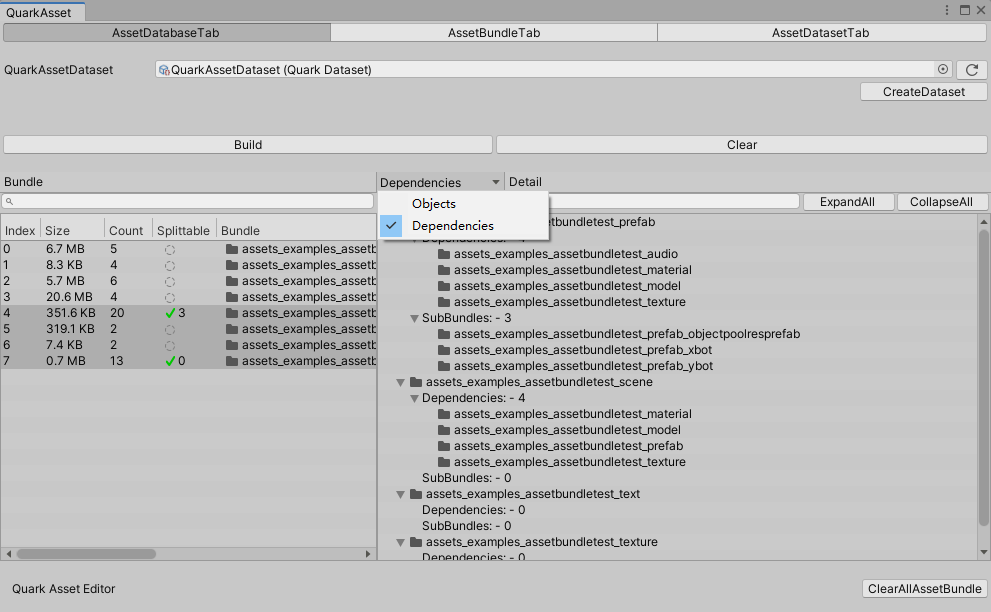
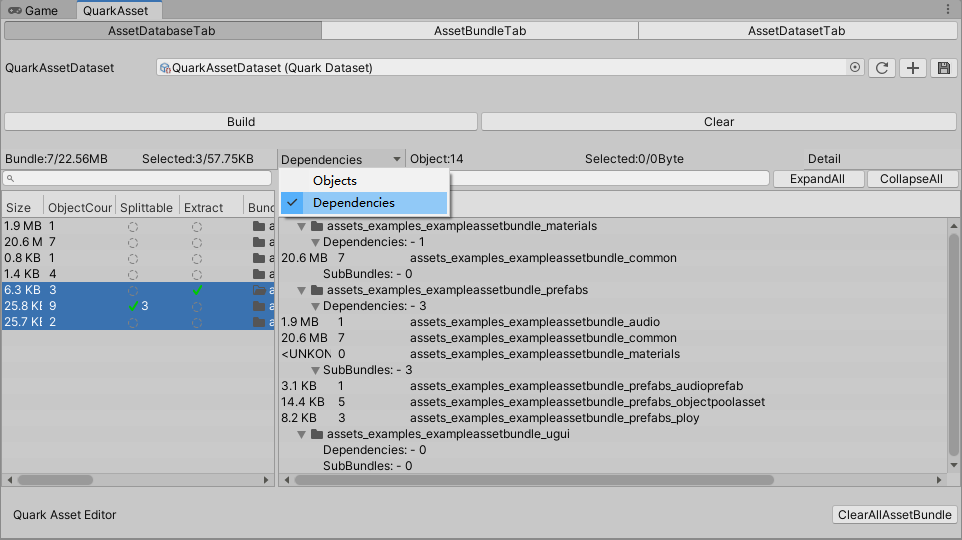
Update: 更新md

Changed region(s): [[0.0, 0.0, 1.0, 1.0]]

diff --git a/README.md b/README.md
@@ -19,15 +19,19 @@ QuarkAsset是一套轻量级的插件化Unity资源加载方案。 内置AssetDa
       - [查看AssetBundle中的资源](#查看assetbundle中的资源)
       - [查看AssetBundle依赖](#查看assetbundle依赖)
       - [拆分AssetBundle](#拆分assetbundle)
+        - [依据子文件夹拆分](#依据子文件夹拆分)
+        - [依据每个资源个体拆分](#依据每个资源个体拆分)
     - [AssetBundleTab](#assetbundletab)
+      - [使用本地设置](#使用本地设置)
+      - [使用构建预设](#使用构建预设)
     - [AssetDatasetTab](#assetdatasettab)
   - [QuarkRuntime入口-QuarkConfig](#quarkruntime入口-quarkconfig)
     - [未选择加载模式](#未选择加载模式)
     - [AssetDatabase加载模式](#assetdatabase加载模式)
     - [AssetBundle加载模式](#assetbundle加载模式)
-  - [QuarkRuntime加载&卸载](#quarkruntime加载&卸载)
   - [QuarkRuntime应用实例](#quarkruntime应用实例)
     - [自定义入口实例](#自定义入口实例)
+  - [QuarkRuntime](#quarkruntime)
     - [QuarkResources加载](#quarkresources加载)
       - [QuarkResources同步加载](#quarkresources同步加载)
       - [QuarkResources异步加载](#quarkresources异步加载)
@@ -41,6 +45,7 @@ QuarkAsset是一套轻量级的插件化Unity资源加载方案。 内置AssetDa
     - [文件清单合并](#文件清单合并)
   - [注意事项](#注意事项)
 
+---
 
 <a name="UPM支持"></a>
 
@@ -51,6 +56,8 @@ QuarkAsset是一套轻量级的插件化Unity资源加载方案。 内置AssetDa
 * UPM本地导入。选择Assets/QuarkAsset文件夹，拷贝到工程目录的Packages目录下，完成导入。
 
 * UPM从git导入。url链接: https://github.com/DonnYep/QuarkAsset.git#upm 
+
+---
 
 <a name="QuarkEditor编辑器"></a>
 
@@ -75,6 +82,7 @@ QuarkAsset是一套轻量级的插件化Unity资源加载方案。 内置AssetDa
 <a name="QuarkEditor-AssetDatabaseTab"></a>
 
 ### AssetDatabaseTab
+
 ![Quark_AssetDatabaseTab](Docs/Images/Quark_AssetDatabaseTab.png)
 
 * 此页面显示dataset中包含的AssetBundle信息。
@@ -85,45 +93,100 @@ QuarkAsset是一套轻量级的插件化Unity资源加载方案。 内置AssetDa
 
 <a name="设置AssetBundle"></a>
 
-#### 设置AssetBundle
+#### &nbsp; 设置AssetBundle
 
 * 将需要被打包为ab的文件夹或资源拖拽入bundle label窗口，被拖入的资源会自动生成ab名称。点击上方Build按钮，完成dataset资源识别。
   
 <a name="查看AssetBundle中的资源"></a>
 
-#### 查看AssetBundle中的资源
-![Quark_AssetDatabaseTab_Preview](Docs/Images/Quark_AssetDatabaseTab_Preview.png)
+#### &nbsp; 查看AssetBundle中的资源
 
 * 选中需要查看的bundle，在右侧label中可缩放查看缩略图信息。
+![Quark_AssetDatabaseTab_Preview](Docs/Images/Quark_AssetDatabaseTab_Preview.png)
+
 
 <a name="查看AssetBundle依赖"></a>
 
-#### 查看AssetBundle依赖
-![Quark_AssetDatabaseTab_Dependent](Docs/Images/Quark_AssetDatabaseTab_Dependent.png)
+#### &nbsp; 查看AssetBundle依赖
 
 * 如图所示，选择显示区类别，可查看bundle的依赖关系以及subbundle信息。
+![Quark_AssetDatabaseTab_Dependent](Docs/Images/Quark_AssetDatabaseTab_Dependent.png)
+
 
 <a name="拆分AssetBundle"></a>
 
-#### 拆分AssetBundle
+#### &nbsp; 拆分AssetBundle
+
+<a name="依据子文件夹拆分"></a>
+
+##### &nbsp; &nbsp; 依据子文件夹拆分
+
+* Mark as splittable
 ![Quark_AssetDatabaseTab_SplitBundle](Docs/Images/Quark_AssetDatabaseTab_SplitBundle.png)
 
 * 选择bundle，点击右键显示菜单，点击"Mark as splittable"选项，被选中的bundle会被标记为可分割的bundle，点击"Build"按钮，刷新信息。
   
 * 分割bundle的逻辑为，若bundle存在子文件夹，则第一级的子文件夹被标记为新的bundle，在构建bundle时会生成新的bundle，同时父级bundle则不会再构建。
 
+* `Splittable`与`Extract`是互斥的。即Splittable为true时，Extract无法为true，反之亦然。
+
+<br>
+
+<a name="依据每个资源个体拆分"></a>
+
+##### &nbsp; &nbsp; 依据每个资源个体拆分
+
+* Mark as extract
+![Quark_AssetDatabaseTab_ExtractBundle](Docs/Images/Quark_AssetDatabaseTab_ExtractBundle.png)
+
+* 选择bundle，点击右键显示菜单，点击"Mark as extract"选项，被选中的bundle会被标记为可分割的bundle，点击"Build"按钮，刷新信息。
+  
+* 当bundle被标记为Extract时，此bundle下的所有资源对象都将作为`独立的assetbundle`进行构建。此功能适用于变更频繁的资产。
+
+* `Extract`与`Splittable`是互斥的。即Extract为true时，Splittable无法为true，反之亦然。
+
+<div style="border-top: 1px solid black; margin-top: 20px; margin-bottom: 20px;"></div>
 
 <a name="QuarkEditor-AssetBundleTab"></a>
 
 ### AssetBundleTab
-![Quark_AssetBundleTab](Docs/Images/Quark_AssetBundleTab.png)
 
 * 此Tab用于ab打包操作。
 
 * 打包ab时需要选择ab所对应的平台。若需要拷贝到streamingAssets文件夹，则勾选CopyToStreamingAssets选项。
 
-* 其余可选择使用默认预设。
+* 打包ab配置有两种选择，第一种是`使用本地设置`，第二种是`使用构建预设`。
+  * `本地设置`指打包ab的配置存储在本地设备。配置无法对其进行版本管理。
+  * `构建预设`指生成一个预设文件，可以在不同机器上使用相同的配置进行ab打包，且可以被版本控制管理。
 
+* 配置打包设置时，在更改需要变更的参数后，其余参数推荐使用默认值。
+
+<a name="使用本地设置"></a>
+
+#### &nbsp; 使用本地设置
+
+* 如图，调整变更自己需要的参数。
+![Quark_AssetBundleTab](Docs/Images/Quark_AssetBundleTab.png)
+
+<a name="使用构建预设"></a>
+
+#### &nbsp; 使用构建预设
+
+* 使用构建预设，如图。勾选`Use build profile`选项，勾选后切换为预设构建。
+![Quark_AssetBundleTab_UseBuildProfile](Docs/Images/Quark_AssetBundleTab_UseBuildProfile.png)
+
+<br>
+
+* 当构建预设不存在时，点击`+`按钮，生成一个构建预设。
+![Quark_AssetBundleTab_CreateBuildProfile](Docs/Images/Quark_AssetBundleTab_CreateBuildProfile.png)
+
+<br>
+
+* 构建预设与本地配置大体相同。
+![Quark_AssetBundleTab_BuildProfile](Docs/Images/Quark_AssetBundleTab_BuildProfile.png)
+
+
+<div style="border-top: 1px solid black; margin-top: 20px; margin-bottom: 20px;"></div>
 
 <a name="QuarkEditor-AssetDatasetTab"></a>
 
@@ -145,6 +208,7 @@ QuarkAsset是一套轻量级的插件化Unity资源加载方案。 内置AssetDa
 ### 未选择加载模式
 ![QuarkConfig_None](Docs/Images/QuarkConfig_None.png)
 
+<div style="border-top: 1px solid black; margin-top: 20px; margin-bottom: 20px;"></div>
 
 <a name="QuarkConfig-AssetDatabase加载模式"></a>
 
@@ -152,6 +216,8 @@ QuarkAsset是一套轻量级的插件化Unity资源加载方案。 内置AssetDa
 ![QuarkConfig_AssetDatabase](Docs/Images/QuarkConfig_AssetDatabase.png)
 
 * 为`QuarkAssetDataset`赋予build好的dataset，即完成配置。
+
+<div style="border-top: 1px solid black; margin-top: 20px; margin-bottom: 20px;"></div>
 
 <a name="QuarkConfig-AssetBundle加载模式"></a>
 
@@ -167,24 +233,7 @@ QuarkAsset是一套轻量级的插件化Unity资源加载方案。 内置AssetDa
 * QuarkRuntime加载资源会自动计算引用计数，并根据引用计数加载或卸载assetbundle，无需手动管理ab资源。
 
 -----
-
-<a name="QuarkRuntime加载&卸载"></a>
-
-## QuarkRuntime加载&卸载
-
-* Quark的加载&卸载类为`QuarkResources`。
-
-* 加载资源时输入的名称可采用以下三种范式：
-    * 1、资源名。      
-    * 2、资源名.后缀   
-    * 3、资源路径      
-
-* 加载&卸载时请注意以下内容：
-    * 1、资源名大小写敏感的资源名 。示例：MyAudio
-    * 2、后缀名大小写不敏感。示例：MyAudio.mp3或MyAudio.MP3
-    * 3、资源路径大小写敏感，地址须以Assets/开头。示例：Assets/Audio/MyAudio.mp3。采用地址加载时，后缀名需要小写。
     
------
 
 <a name="QuarkRuntime应用实例"></a>
 
@@ -196,39 +245,74 @@ QuarkAsset是一套轻量级的插件化Unity资源加载方案。 内置AssetDa
 
 ```csharp
 using Quark;
+using Quark.Asset;
+using System.IO;
 using UnityEngine;
-[DefaultExecutionOrder(-2000)]//建议延后入口执行优先级
-public class GameLauncher : MonoBehaviour
+public class MyLauncher : MonoBehaviour
 {
-    private void Awake()
-    {
-        QuarkResources.OnCompareManifestSuccess += OnCompareManifestSuccess;
-        QuarkResources.OnCompareManifestFailure += OnCompareManifestFailure; 
-    }
+    /// <summary>
+    /// QuarkAssetLoadMode下AssetDatabase模式所需的寻址数据。
+    /// <see cref="Quark.QuarkLoadMode"/>
+    /// </summary>
+    [SerializeField] QuarkDataset quarkDataset;
+    /// <summary>
+    /// ab Build 的相对地址。
+    /// </summary>
+    [SerializeField] string streamingRelativeBuildPath;
+    /// <summary>
+    /// 对称加密密钥。
+    /// </summary>
+    [SerializeField] string manifestAesKey;
+    /// <summary>
+    /// 加密偏移量。
+    /// </summary>
+    [SerializeField] ulong encryptionOffset;
     private void Start()
     {
-        if (QuarkResources.QuarkAssetLoadMode == QuarkLoadMode.AssetDatabase)
+        //根据需要调用函数
+    }
+    void LanchAssetBundleMode()
+    {
+        //以AssetBundle模式启动
+        var myPath = Path.Combine(Application.streamingAssetsPath, streamingRelativeBuildPath);
+        QuarkResources.LaunchAssetBundleMode(myPath, () =>
         {
-            InitGame();
-        }
+                //启动成功，进入游戏逻辑
+            }, (errorMsg) =>
+            {
+                //启动失败，处理异常
+            }, manifestAesKey, encryptionOffset);
     }
-    private void OnCompareManifestSuccess(long size)
+    void LanchAssetDatabaseMode()
     {
-        if (QuarkResources.QuarkAssetLoadMode == QuarkLoadMode.AssetBundle)
+        //以AssetDatabase(unity editor 调试)模式启动。
+        QuarkResources.LaunchAssetDatabaseMode(quarkDataset, () =>
         {
-            InitGame();
-        }
-    }
-    private void OnCompareManifestFailure(string message)
-    {
-       //这里表示文件清单未被读取到，需要检查build后的文件是否存在以及路径是否正确
-    }
-    void InitGame()
-    {
-        //Quark资源初始化成功，可进行初始化！
+                //启动成功，进入游戏逻辑
+            }, (errorMsg) =>
+            {
+                //启动失败，处理异常
+            });
     }
 }
 ```
+-----
+
+<a name="QuarkRuntime"></a>
+
+## QuarkRuntime
+
+* Quark的运行时类为为`QuarkResources`。
+
+* 加载资源时输入的名称可采用以下三种范式：
+    * 1、资源名。      
+    * 2、资源名.后缀   
+    * 3、资源路径      
+
+* 加载&卸载时请注意以下内容：
+    * 1、资源名大小写敏感的资源名 。示例：MyAudio
+    * 2、后缀名大小写不敏感。示例：MyAudio.mp3或MyAudio.MP3
+    * 3、资源路径大小写敏感，地址须以Assets/开头。示例：Assets/Audio/MyAudio.mp3。采用地址加载时，后缀名需要小写。
 
 <a name="QuarkResources加载"></a>
 
@@ -236,7 +320,7 @@ public class GameLauncher : MonoBehaviour
 
 <a name="QuarkResources同步加载"></a>
 
-#### QuarkResources同步加载
+#### &nbsp; QuarkResources同步加载
 
 ```csharp
 var myAudio = QuarkResources.LoadAsset<AudioClip>("MyAudio");// 资源名加载
@@ -246,7 +330,7 @@ var myTexture = QuarkResources.LoadAsset<Texture>("Assets/Textures/MyTexture.png
 
 <a name="QuarkResources异步加载"></a>
 
-#### QuarkResources异步加载
+#### &nbsp; QuarkResources异步加载
 
 ```csharp
 QuarkResources.LoadAssetAsync<AudioClip>("MyAudio",res=> 
@@ -264,13 +348,15 @@ QuarkResources.LoadAssetAsync<Texture>("Assets/Textures/MyTexture.png",res=>
 QuarkResources.LoadSceneAsync("MyScene",progress=>{Debug.Log(progress);},()=>{Debug.Log("Load Done");},false);
 ```
 
+
+
 <a name="QuarkResources卸载"></a>
 
 ### QuarkResources卸载
 
 <a name="QuarkResources资源单个卸载"></a>
 
-#### QuarkResources卸载单个资源
+#### &nbsp; QuarkResources卸载单个资源
 
 * 卸载与加载相同，都支持三种三种范式：
     * 1、资源名。      
@@ -290,14 +376,33 @@ QuarkResources.UnloadSceneAsync("MyScene",progress=>{Debug.Log(progress);},()=>{
 
 <a name="QuarkResources卸载assetbundle"></a>
 
-#### QuarkResources卸载assetbundle
+#### &nbsp; QuarkResources卸载assetbundle
 
 ```csharp
 //卸载assetbundle
 QuarkResources.UnloadAssetBundle("MyBundle",true); 
 ```
+<div style="border-top: 1px solid black; margin-top: 20px; margin-bottom: 20px;"></div>
+
+<a name="QuarkResources获取资源信息"></a>
+
+### QuarkResources获取资源信息
+
+```csharp
+  //获取单个资源的状态信息
+  QuarkResources.GetObjectInfo(myAssetName, out var info);
+```
+<a name="QuarkResources获取包体信息"></a>
+
+### QuarkResources获取包体信息
+
+```csharp
+  //获取一个包体的状态信息
+  QuarkResources.GetBundleInfo(myBundleName, out var info);
+```
 
 -----
+
 <a name="BuildPipeline"></a>
 
 ## BuildPipeline
@@ -319,11 +424,15 @@ Assets/QuarkAssetDataset.asset
 * 命令行可调用的API如下：
 
 ```csharp
-//对当前活跃平台的资源进行打包
-QuarkBuildPipeline.BuildActivePlatformAssetBundle();
 //打包指定平台的资源
 QuarkBuildPipeline.BuildAssetBundle(BuildTarget buildTarget);
+//通过预设进行构建
+QuarkBuildPipeline.BuildAssetBundleByProfile(string datasetPath, string buildProfilePath);
 ```
+
+* 详细的命令可查看`QuarkBuildPipeline.cs`类。
+
+---
 
 <a name="差量更新"></a>
 
@@ -341,13 +450,11 @@ QuarkBuildPipeline.BuildAssetBundle(BuildTarget buildTarget);
 ```csharp
 QuarkUtility.Manifest.MergeManifest(srcManifest,diffManifest,out var mergedManifest);
 ```
-
+---
 
 <a name="注意事项"></a>
 
 ## 注意事项
-
-* 若在编辑器环境下对AB进行构建，为使得构建的资源准确无误，建议每次都手动清理StreamingAssets下的文件夹。
 
 * 自动化部署构建资源请根据打包策略选择合适的清理方式。建议采用所有资源重新构建的策略。
 
